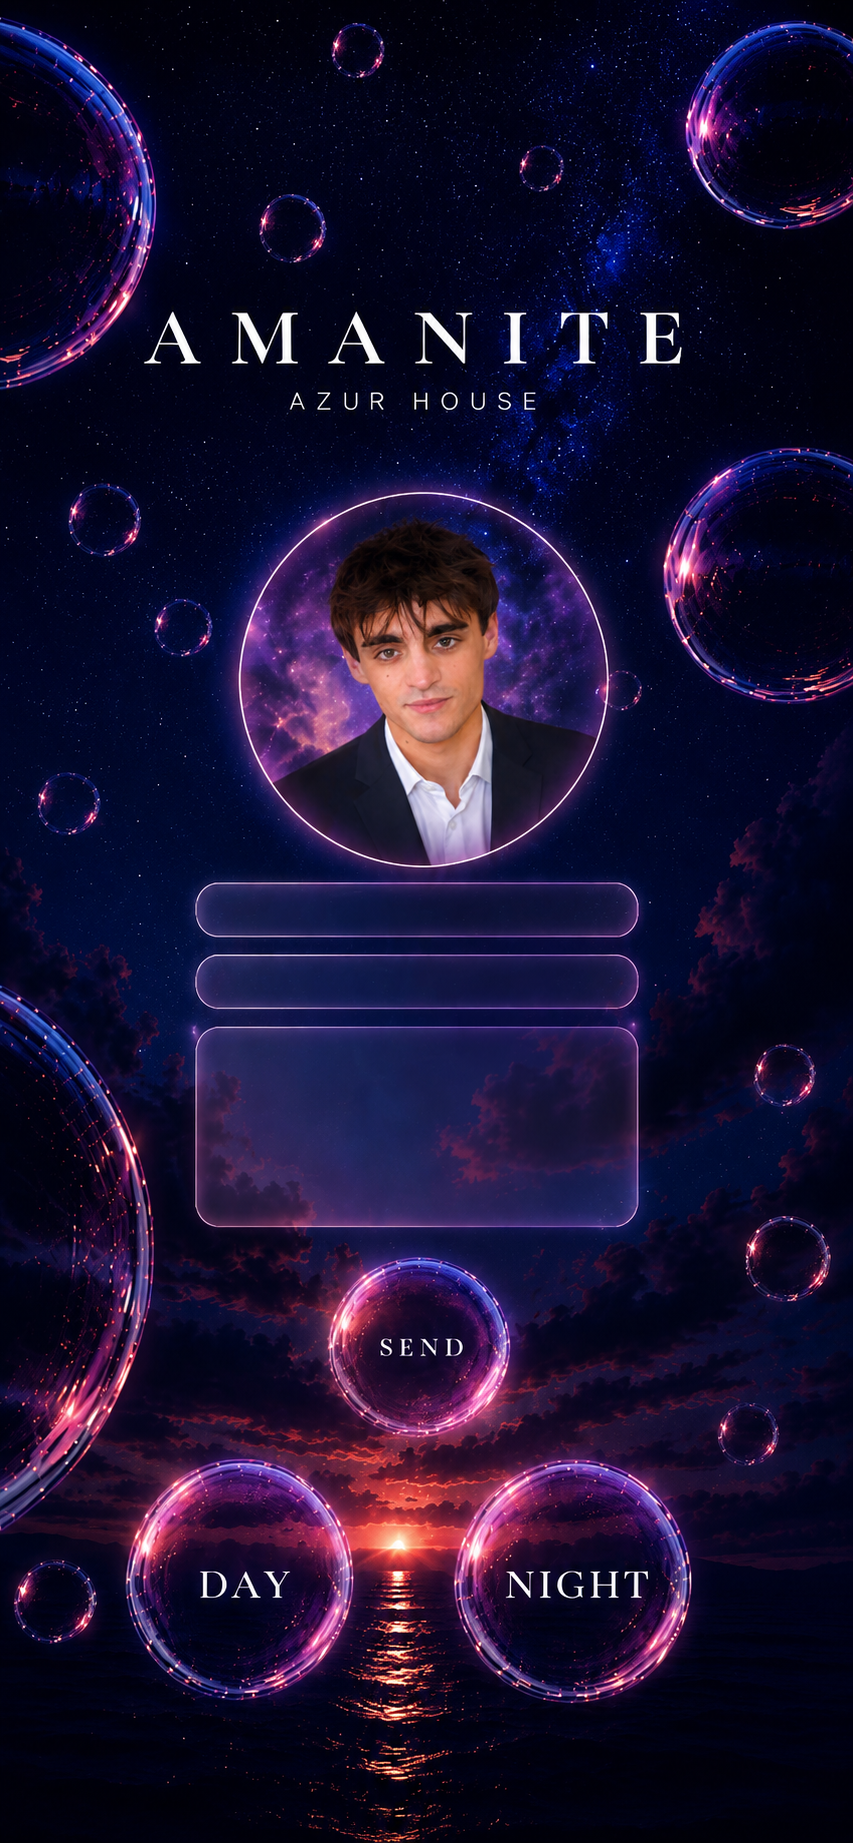
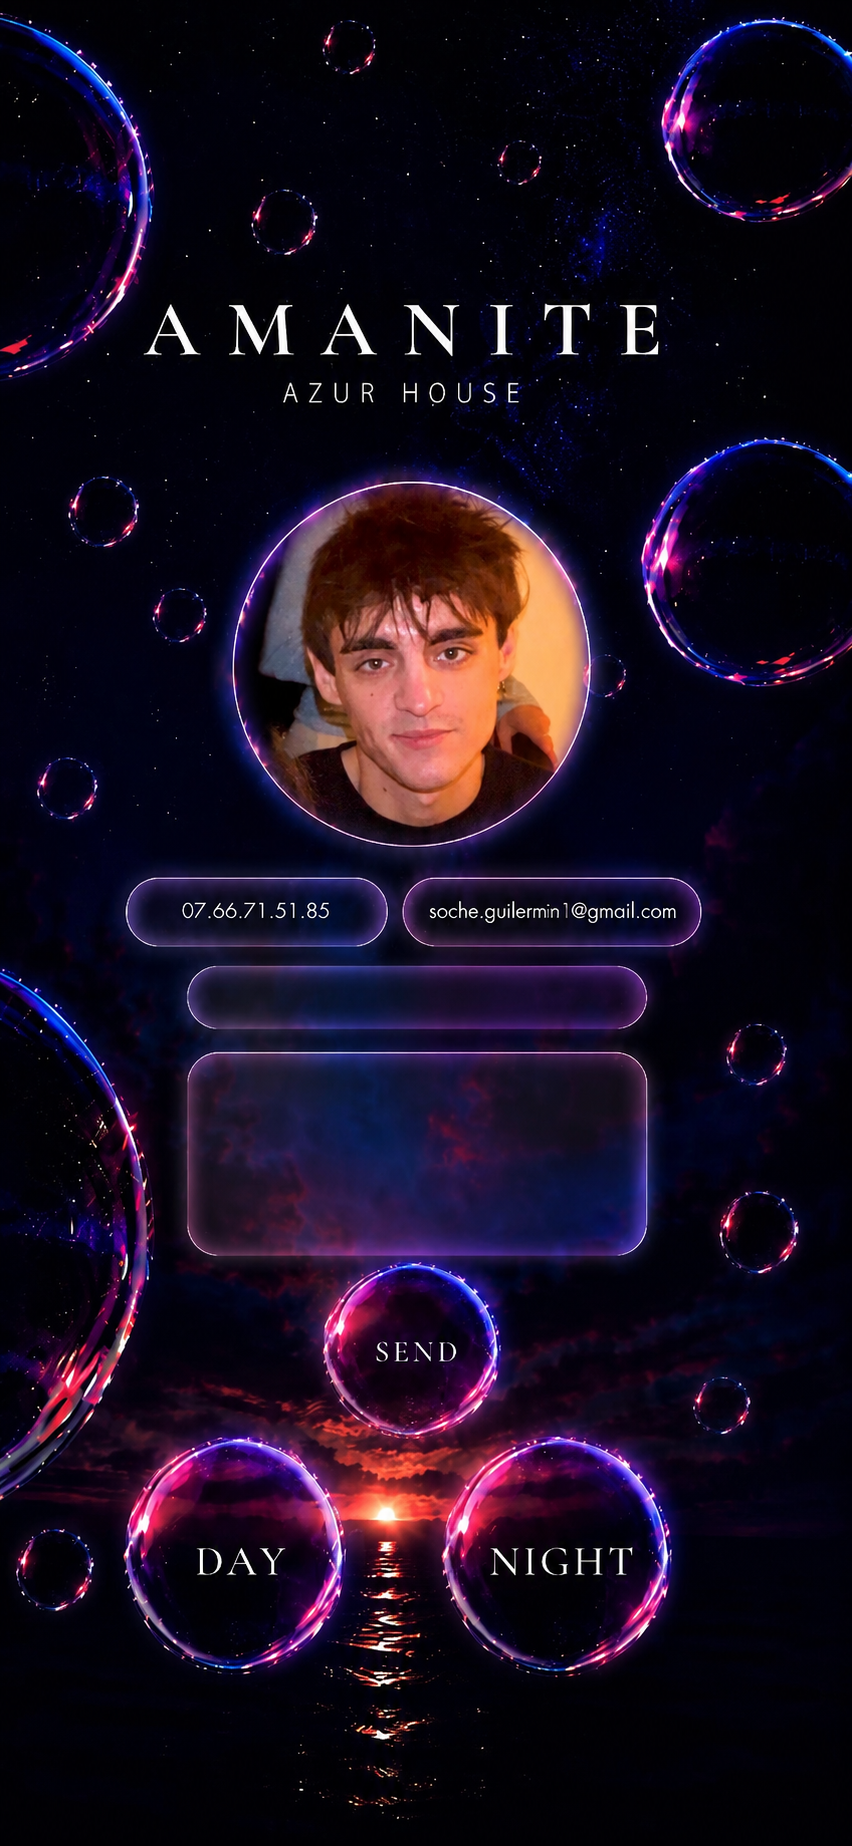
up

diff --git a/style.css b/style.css
@@ -509,10 +509,9 @@ body{
     width:32%;
 
     left:25%;
-    top:52.3%;
-}
+    top:53%;
 
-/* EMAIL */
+}
 
 
 
@@ -527,8 +526,8 @@ body{
     max-width:55%;
     max-height:10%;
 
-    left:26%;
-    top:57%;
+    left:25%;
+    top:58%;
 
     resize:none;
 

diff --git a/day.html b/day.html
@@ -46,6 +46,9 @@
     <link rel="stylesheet"
           href="style.css">
 
+          <link rel="prefetch" href="night.html">
+<link rel="prefetch" href="booking.html">
+
 </head>
 
 <body>
